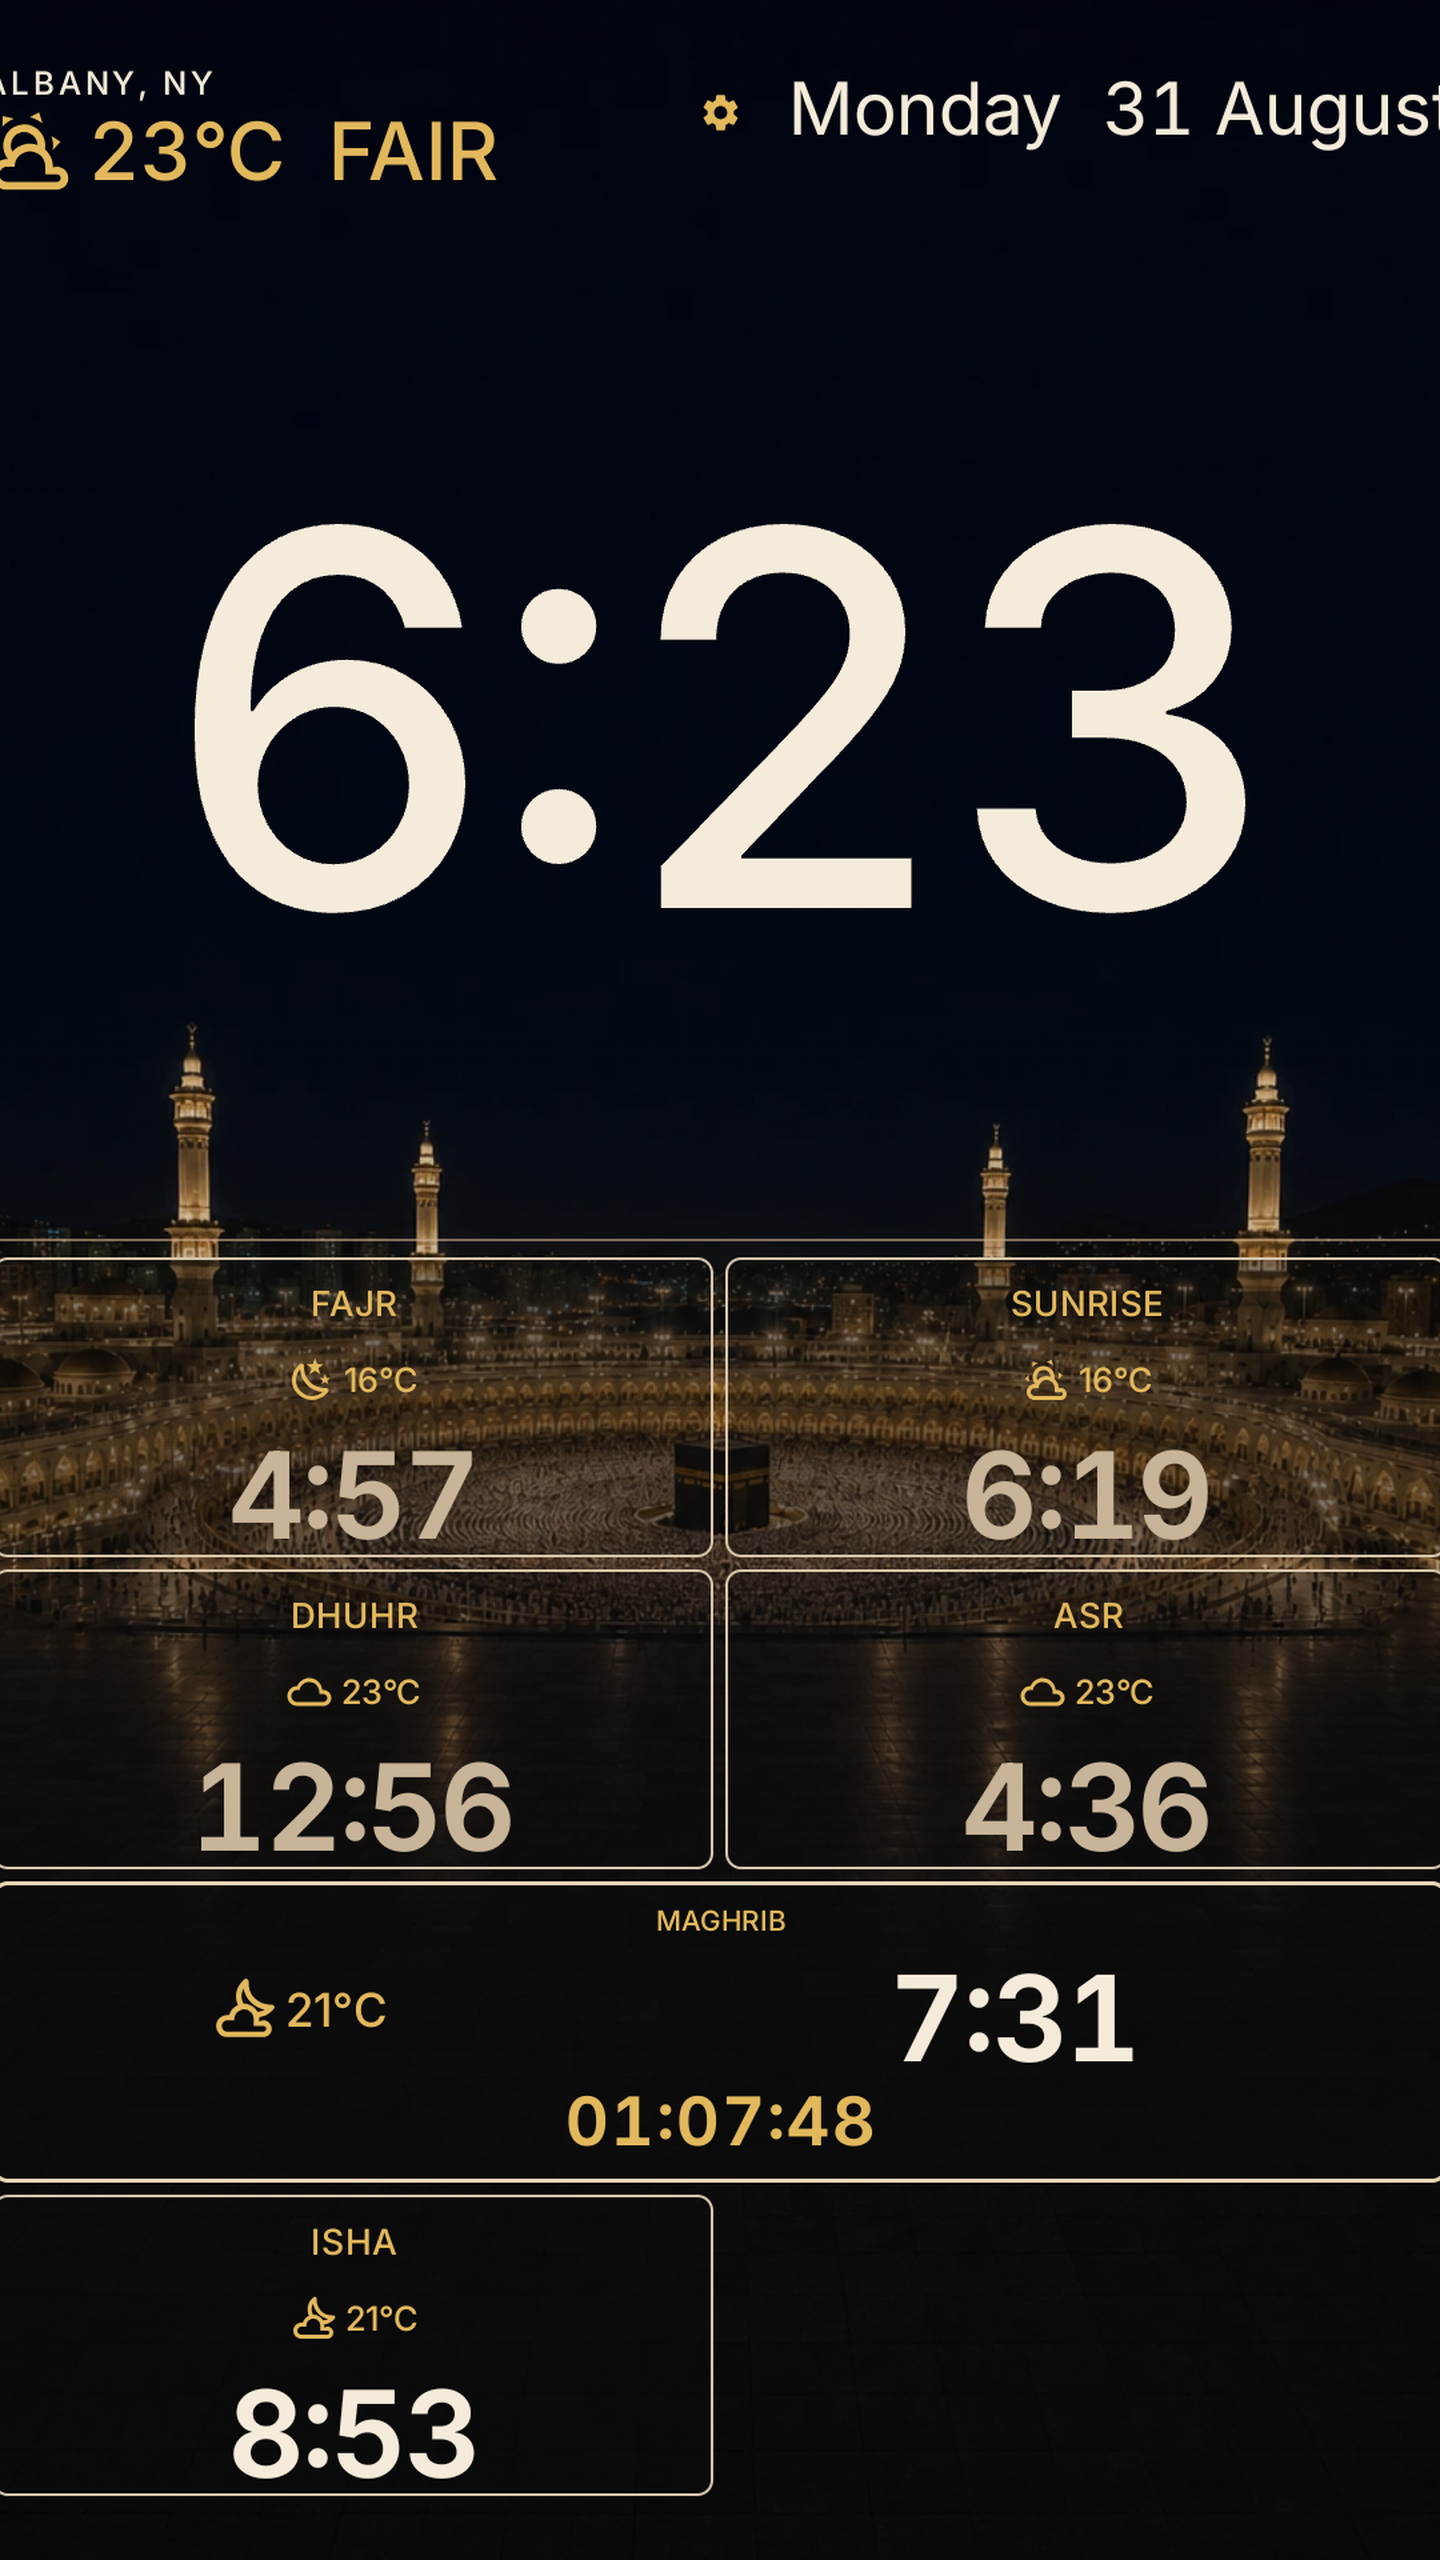
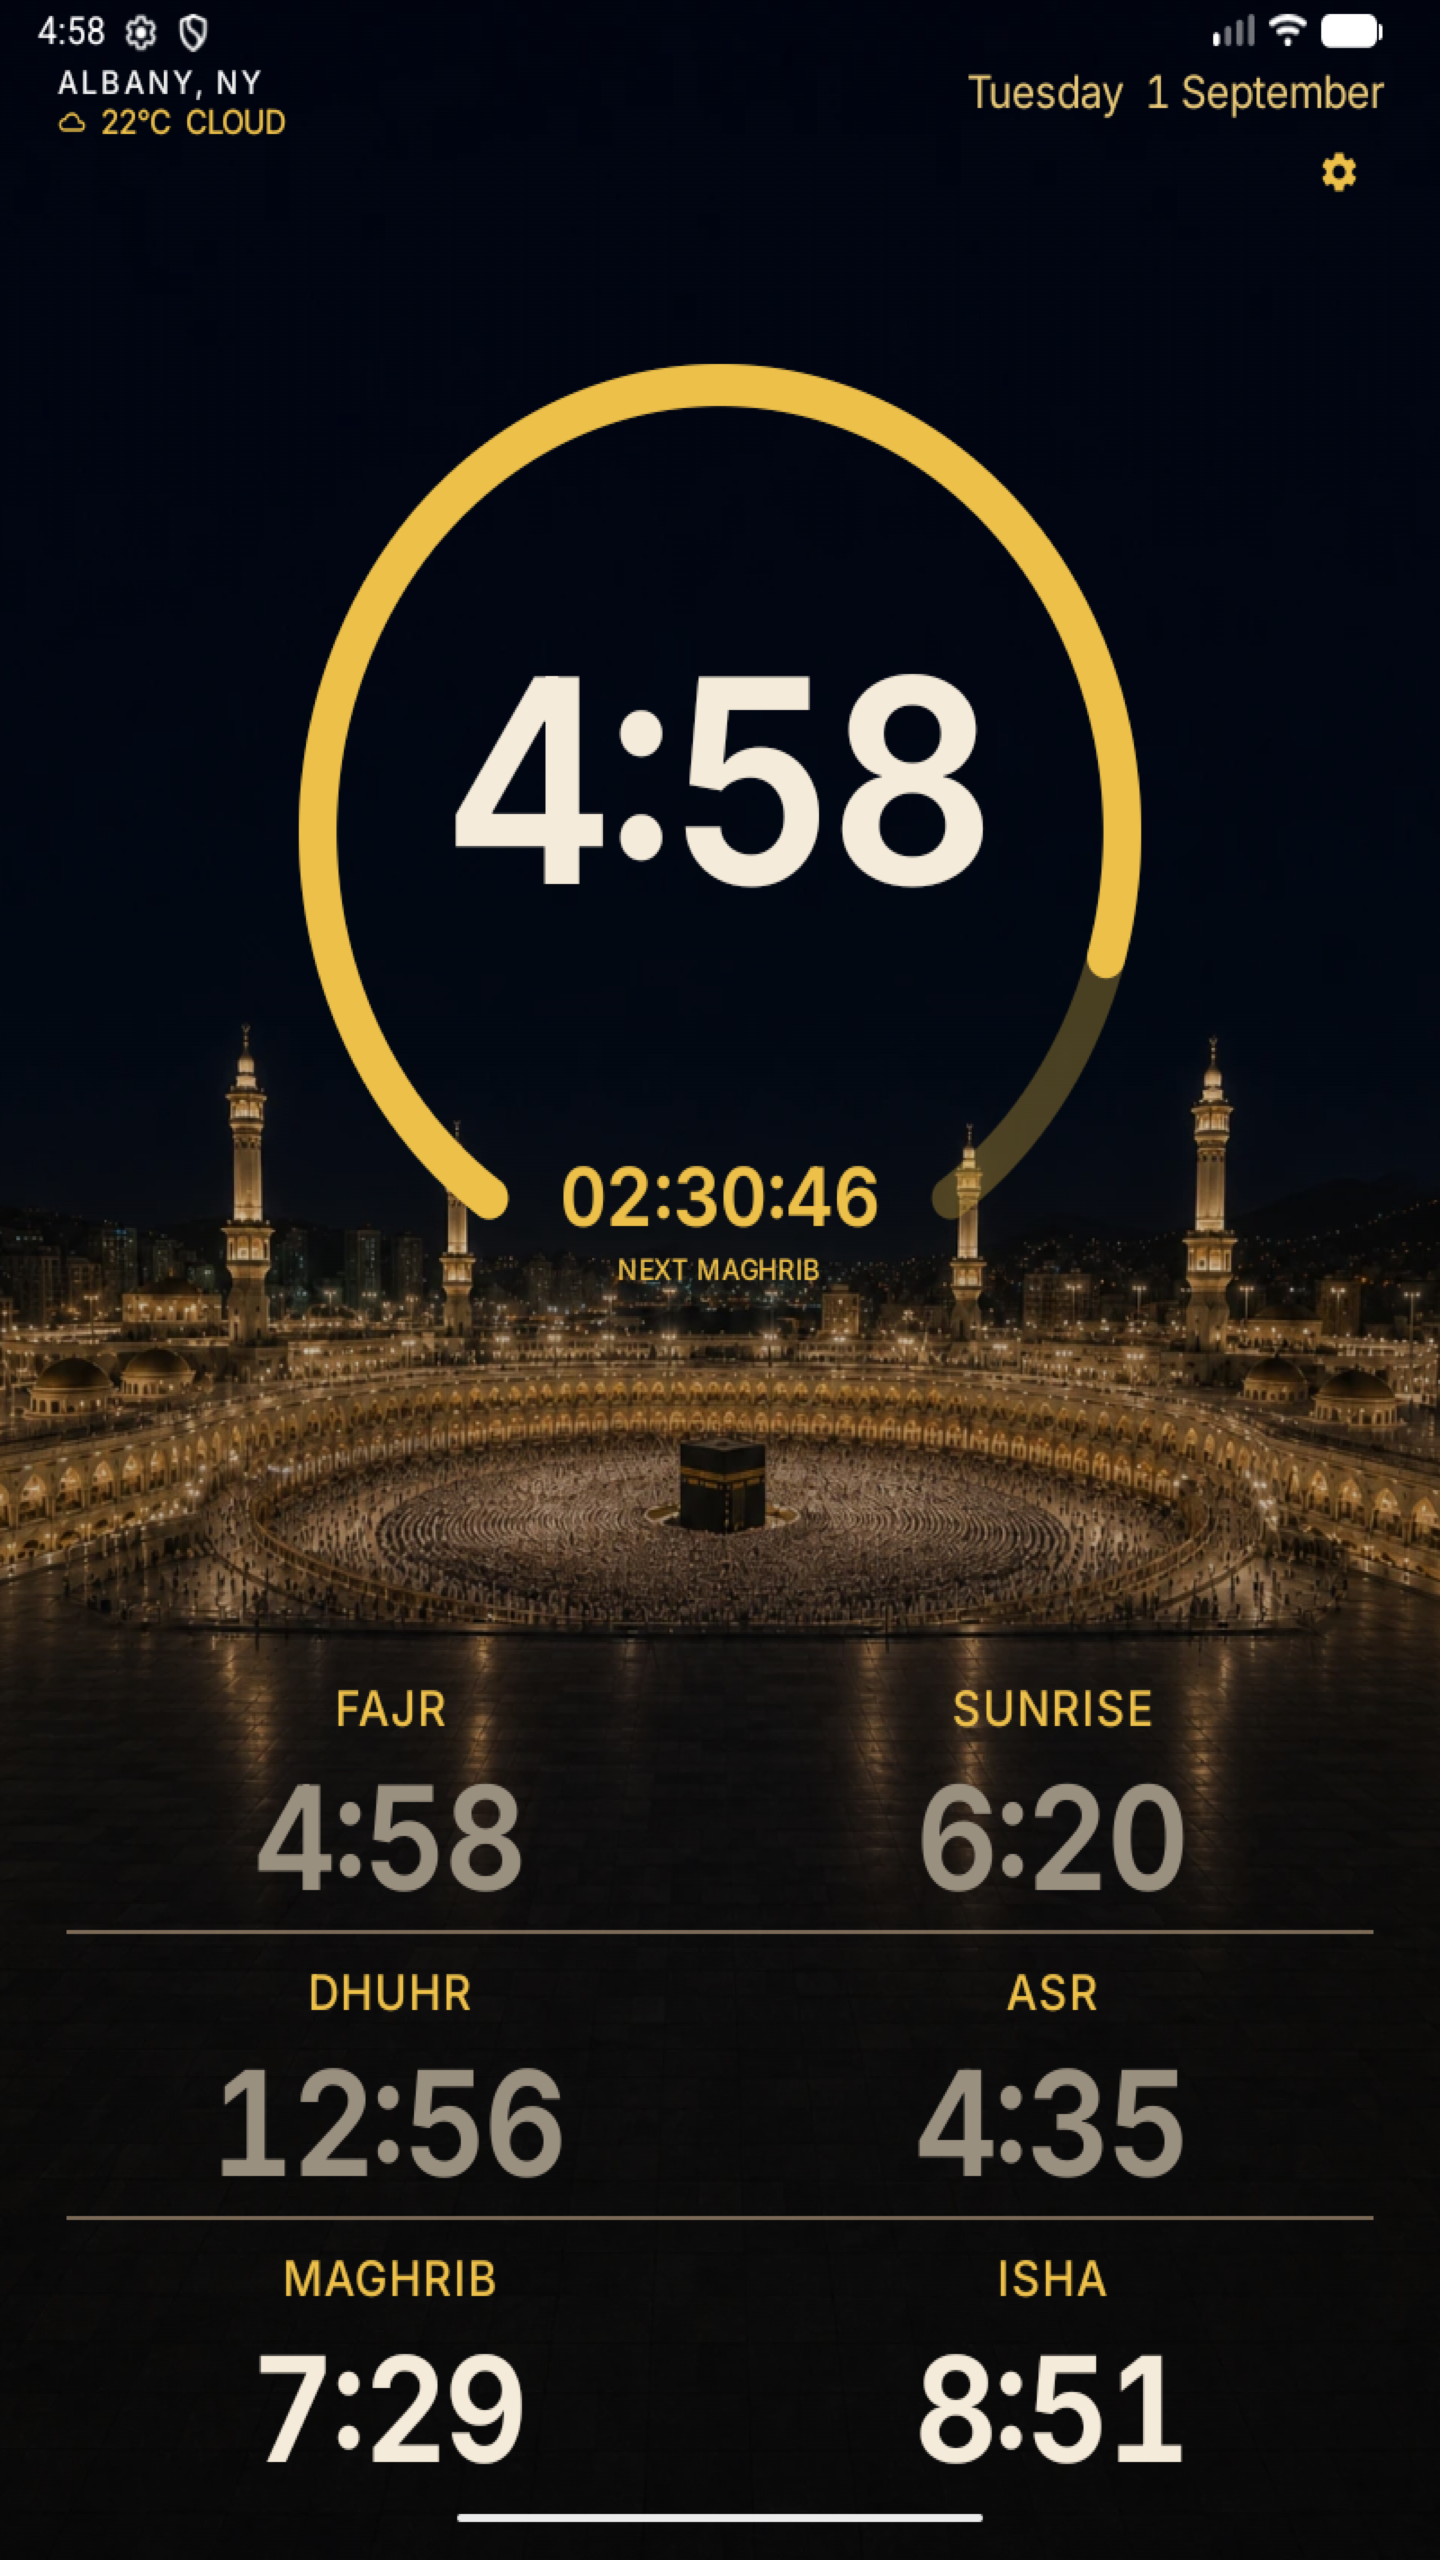
docs: refresh README and Play idle screenshots for arc wall
Rewrite README for Athan Clock (dark-only, arc timer, landscape split).
Replace idle listing frames from arc-check ops shots; drop light-theme gallery.

diff --git a/README.md b/README.md
@@ -1,15 +1,16 @@
 <div align="center">
 
-<img src="design/ic_launcher.png" alt="PrayerAthan Icon" width="120" />
+<img src="design/ic_launcher.png" alt="Athan Clock Icon" width="120" />
 
-# PrayerAthan
+# Athan Clock
 
 **A dedicated, full-screen wall clock and prayer time display for Android tablets.**
 
 [![License: MIT](https://img.shields.io/badge/License-MIT-amber.svg)](LICENSE)
 [![Platform](https://img.shields.io/badge/Platform-Android%208.0%2B%20(API%2026%2B)-blue.svg)](https://developer.android.com)
-[![Kotlin](https://img.shields.io/badge/Kotlin-2.1.10-purple.svg)](https://kotlinlang.org)
-[![Compose](https://img.shields.io/badge/Jetpack%20Compose-BOM%202025.02.00-brightgreen.svg)](https://developer.android.com/jetpack/compose)
+[![Compose](https://img.shields.io/badge/Jetpack%20Compose-BOM%202026.06.01-brightgreen.svg)](https://developer.android.com/jetpack/compose)
+
+Package `com.mutazyounes.prayerathan` · Play listing name **Athan Clock**
 
 </div>
 
@@ -17,113 +18,89 @@
 
 ## Overview
 
-Most prayer apps are built for phones: small fonts, endless menus, widgets that sleep, and complex setups. 
+Most prayer apps are built for phones: small fonts, endless menus, widgets that sleep.
 
-PrayerAthan is designed specifically for wall-mounted 7-inch and 10-inch Android tablets. It serves as an always-on ambient display with clean typography readable from 8 to 12 feet away.
+Athan Clock is built for wall-mounted 7-inch and 10-inch Android tablets. Always on. Readable from across the room. Dark Mecca wall only.
 
 <div align="center">
   <table>
     <tr>
-      <td align="center"><b>Landscape Wall View (Dark)</b></td>
-      <td align="center"><b>Portrait Wall View (Dark)</b></td>
+      <td align="center"><b>Landscape</b></td>
+      <td align="center"><b>Portrait</b></td>
     </tr>
     <tr>
-      <td><img src="store/listing/play/tablet-10/02-landscape-idle-dark.png" alt="Landscape Dark Mode" width="480"/></td>
-      <td><img src="store/listing/play/tablet-10/01-portrait-idle-dark.png" alt="Portrait Dark Mode" width="320"/></td>
+      <td><img src="store/listing/play/tablet-10/02-landscape-idle-dark.png" alt="Landscape wall" width="480"/></td>
+      <td><img src="store/listing/play/tablet-10/01-portrait-idle-dark.png" alt="Portrait wall" width="280"/></td>
     </tr>
   </table>
 </div>
+
+Landscape: horseshoe arc clock on the left, spaced prayer list on the right. Portrait: arc hero above a 2×3 prayer grid. Both show location, weather, date, and a live countdown to the next prayer.
 
 ---
 
 ## Highlights
 
-- **Readable across the room:** Big clock, live countdown to the next prayer (`HH:MM:SS`), and today's timetable.
-- **Landscape and portrait:** Custom layouts designed natively for both orientations without awkward scaling.
-- **Offline prayer calculation:** Uses [`adhan-kotlin`](https://github.com/batoulapps/adhan-kotlin) (ISNA / Shafi default) directly on the device. No internet connection required for prayer times.
-- **Authentic athan audio:** Automatically plays Makkah athan at prayer times (with the distinct Fajr recording). Includes tap-to-stop and reliable alarms via `AlarmManager.setAlarmClock`.
-- **Hourly daytime athkar:** Optional audio dhikr played on the hour between 8:00 AM and 9:00 PM (only between Fajr and Isha).
-- **Day and night themes:** Warm plaster Light mode, night mosque Dark mode, or Auto mode that switches automatically at sunrise and sunset.
-- **Always awake:** Uses `FLAG_KEEP_SCREEN_ON` to keep the screen active while mounted on the wall.
-- **Offline city catalog:** Built-in searchable database of thousands of worldwide cities with coordinates and time zones, plus optional one-tap GPS fix.
-- **Ambient weather:** Optional real-time temperature and sky condition display with short-range precipitation indicators.
-- **Privacy focused:** No accounts, no ads, no trackers, and no external backend.
+- **Arc timer wall.** Current time sits inside a gold horseshoe ring that drains toward the next prayer. Countdown and `NEXT …` sit in the notch.
+- **Both orientations.** Native landscape split and portrait stack. No stretched phone UI.
+- **Offline prayer math.** [`adhan-kotlin`](https://github.com/batoulapps/adhan-kotlin), ISNA North America, Shafi Asr. No internet required after location is saved.
+- **Saudi athan.** One recording for Fajr through Isha on the alarm stream. Per-prayer mute and volume. Tap or volume-down to stop. Sunrise stays silent.
+- **Hourly athkar.** Optional daytime dhikr (8 AM–9 PM, Fajr to Isha). Athan wins if both fire.
+- **Keep awake.** `FLAG_KEEP_SCREEN_ON` while the wall is visible. Night blackout 11 PM–4 AM with tap-to-wake.
+- **City search + one GPS fix.** Bundled GeoNames catalog. First launch asks for location; deny keeps Albany, NY.
+- **Ambient weather.** Open-Meteo temperature and condition in the header.
+- **Privacy.** No accounts, ads, trackers, or backend.
 
 <div align="center">
   <table>
     <tr>
-      <td align="center"><b>Adhan Playing State</b></td>
-      <td align="center"><b>Light Plaster Theme</b></td>
+      <td align="center"><b>Adhan playing (landscape)</b></td>
+      <td align="center"><b>Adhan playing (portrait)</b></td>
     </tr>
     <tr>
-      <td><img src="store/listing/play/tablet-10/04-landscape-athan-dark.png" alt="Adhan Playing" width="480"/></td>
-      <td><img src="store/listing/play/tablet-10/06-landscape-idle-light.png" alt="Light Theme" width="480"/></td>
+      <td><img src="store/listing/play/tablet-10/04-landscape-athan-dark.png" alt="Adhan playing landscape" width="480"/></td>
+      <td><img src="store/listing/play/tablet-10/03-portrait-athan-dark.png" alt="Adhan playing portrait" width="280"/></td>
     </tr>
   </table>
 </div>
 
 ---
 
-## Architecture & Codebase
-
-The project is structured as a clean, single-module Android app:
+## Architecture
 
 ```
-PrayerAthan/
-├── app/src/main/java/com/mutazyounes/prayerathan/
-│   ├── MainActivity.kt        # Main entry point with sensor orientation & keep-awake
-│   ├── engine/                # Pure Kotlin prayer math & offline location stores
-│   │   ├── PrayerCalculator.kt
-│   │   ├── PrayerDay.kt
-│   │   └── CityCatalog.kt
-│   ├── audio/                 # AlarmManager scheduling, foreground service & MediaPlayer
-│   │   ├── AthanScheduler.kt
-│   │   ├── AthanPlayer.kt
-│   │   └── AthkarScheduler.kt
-│   ├── ui/                    # Jetpack Compose wall screen, themes & settings sheet
-│   │   ├── WallScreen.kt
-│   │   ├── StackedClockWall.kt
-│   │   ├── WallTheme.kt
-│   │   └── SettingsSheet.kt
-│   └── weather/               # Lightweight weather client for ambient header info
-└── app/src/main/res/raw/      # Athan & athkar audio files
+app/src/main/java/com/mutazyounes/prayerathan/
+├── MainActivity.kt          # Host, keep-awake, orientation
+├── engine/                  # Pure Kotlin prayer math, cities, NTP wall time
+├── audio/                   # AlarmManager, AthanService, MediaPlayer, athkar
+├── ui/                      # Compose wall, settings, themes
+├── shell/                   # BootReceiver, GPS-once, NTP client
+└── weather/                 # Open-Meteo client
 ```
+
+Specs live in `PROJECT.md` and `DESIGN.md`. Agent standing orders: `AGENTS.md`, `CLAUDE.md`.
 
 ---
 
-## Getting Started
+## Build
 
-### Prerequisites
+```bash
+git clone https://github.com/AlmutazYounes/PrayerAthan.git
+cd PrayerAthan
+./gradlew test
+./gradlew assembleDebug   # local compile check only
+```
 
-- Android Studio Ladybug / Meerkat or later
-- JDK 17 or higher
-- Android SDK 36 (targetSdk) / Minimum Android 8.0 (API 26)
+Wall tablets install from Play (internal or closed testing). Do not sideload debug over a Play install of the same package.
 
-### Build and Run
+Ship an internal testing build:
 
-1. Clone the repository:
-   ```bash
-   git clone https://github.com/AlmutazYounes/PrayerAthan.git
-   cd PrayerAthan
-   ```
-
-2. Wall tablets install from Play (internal or closed testing). Do not sideload a debug APK onto those tablets.
-
-3. Run unit tests:
-   ```bash
-   ./gradlew test
-   ```
-
-4. Ship a Play build with `./store/scripts/push-release.sh`. `assembleDebug` is for local compile checks only.
-
----
-
-## Instructions for AI Coding Agents
-
-If you are an AI assistant or coding agent working on this repository, please review [AGENTS.md](AGENTS.md) and [CLAUDE.md](CLAUDE.md) for architectural boundaries, design tokens, and testing guidelines.
+```bash
+./store/scripts/push-release.sh "what changed"
+```
 
 ---
 
 ## License
 
-Code is distributed under the [MIT License](LICENSE).
+App code is [MIT](LICENSE). Athan MP3s are personal-use until rights are cleared. See `audio/SOURCE.md`.

diff --git a/store/listing/README.md b/store/listing/README.md
@@ -2,9 +2,7 @@
 
 Upload from `play/`, plus the icon and feature graphic. Do not upload `design/athan-wall-*.png`. Play's tablet slot wants 16:9 and 9:16 (1080px+).
 
-Shot 1 September 2026 evening from the live debug APK. `Tablet_10in` for tablet-10 (1440×2560 / 2560×1440) and for phone + tablet-7 at 1080×1920 / 1920×1080 (`wm size` on the 10-inch AVD; `Tablet_7in` hit System UI ANR). Package `com.mutazyounes.prayerathan`. Albany, 12-hour, horseshoe arc wall, dark mosque only. Weather on the wall. Date without year. No settings sheet.
-
-Athan frames: `adb shell run-as com.mutazyounes.prayerathan am start-foreground-service --user 0 -n com.mutazyounes.prayerathan/.audio.AthanService -a com.mutazyounes.prayerathan.audio.PLAY --es prayer DHUHR` after seeding empty `muted_prayers` in app prefs (defaults mute all five).
+Idle frames refreshed 20 September 2026 from `ops/shots-landscape-arc-check.png` and `ops/shots-portrait-check.png` (arc timer wall, landscape split list, dark mosque only). Resized to Play slots. Athan frames are still the earlier Dhuhr-playing captures until a fresh emulator pass.
 
 No settings sheet in any upload PNG. Light frames were dropped. The live wall is dark only.
 
@@ -20,12 +18,12 @@ No settings sheet in any upload PNG. Light frames were dropped. The live wall is
 
 Phone slot is the 7-inch wall in 9:16, not a phone UI. Console still asks for it. Same four filenames in every folder:
 
-1. `01-portrait-idle-dark.png` — dark wall, Maghrib next, countdown in that cell
-2. `02-landscape-idle-dark.png` — same, landscape
-3. `03-portrait-athan-dark.png` — Dhuhr cell says Adhan is playing
+1. `01-portrait-idle-dark.png` — portrait arc hero, 2×3 prayer grid
+2. `02-landscape-idle-dark.png` — landscape arc left, spaced prayer list right
+3. `03-portrait-athan-dark.png` — Adhan is playing (older capture; refresh when emulator is free)
 4. `04-landscape-athan-dark.png` — same, landscape
 
-Max 8 per slot. These 4 fit. Console accepted them 31 Aug 2026.
+Max 8 per slot. These 4 fit.
 
 ## Do not upload
 

diff --git a/ops/LOG.md b/ops/LOG.md
@@ -2,6 +2,7 @@
 
 Append one line per event. Newest at the top.
 
+- 2026-09-20 Mutaz: README rewritten for Athan Clock. Idle Play screenshots refreshed from arc-check ops shots. Light-theme gallery removed.
 - 2026-09-20 Mutaz: issue #4 times label. Settings shows ISNA North America and Shafi Asr. Did not change the math. Amman in cities.tsv stays Asia/Amman.
 - 2026-09-20 Mutaz: issue #3 clock-style stop. Volume keys bind to STREAM_ALARM. Zero or long-press stops. TAP TO STOP on the playing block.
 - 2026-09-20 Mutaz: issue #2 athan speaker only. Pin MediaPlayer to built-in speaker so headphones do not play at the same time.
